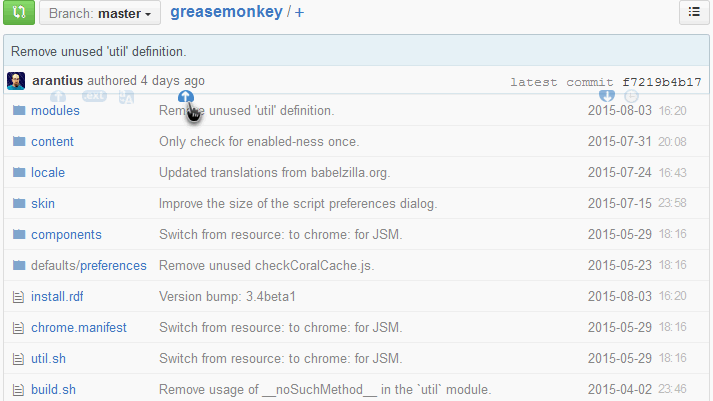
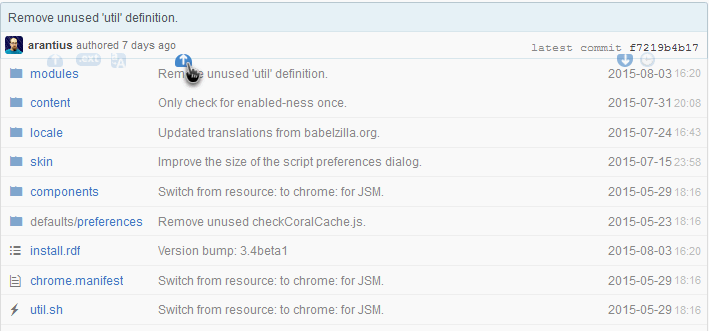
GitHub Sortable Filelist
15.08.10  + octicons for file extensions

diff --git a/src/GitHub_Sortable_Filelist.user.js b/src/GitHub_Sortable_Filelist.user.js
@@ -3,8 +3,8 @@
 // @namespace   trespassersW
 // @description appends sorting function to github directories
 // @include https://github.com/*
-// @version 15.08.08
-// 15.08.08  * css fixes
+// @version 15.08.10
+// 15.08.10  + octicons for file extensions
 // 15.08.07  + case-insensitive sorting
 // 15.05.07  sorting is now faster
 // 14.11.19.13 fixes for latest github changes
@@ -43,6 +43,31 @@ var D=document, TB;
 var catcher,locStor;
 var prefs={dtStyle:0, ext: 0, upc: 1};
 var W= unsafeWindow || window;
+
+// see: https://octicons.github.com/
+var extIcon=[
+//0...........1..............2..............3..............4.......
+ "book"     ,"zap"        ,"list-unordered","paintcan"   ,"eye"
+//5...........6..............7..............8..............9.......
+,"globe"    ,"file-binary" ,"file-zip"     ,"file-pdf"   ,"unmute"
+//10..........11.............12.............13.............14......
+,"gear"     ,"code"
+]
+var extList={ 
+md:0,
+js:1,rb:1,py:1,sh:1,pl:1,jsm:1,
+json:2,xml:2,xul:2,rdf:2,
+css:3,
+png:4,jpg:4,jpeg:4,bmp:4,gif:4,cur:4,ico:4,svg:4,
+htm:5,html:5,php:5,
+bin:6,exe:6,
+zip:7,rar:7,arj:7,
+pdf:8,rtf:8,
+wav:9,mp3:9,ogg:9,
+cfg:10,ini:10,
+c:11,cpp:11,cc:11,h:11,hpp:11,asm:11
+}
+
 function stickStyle(css){
  var s=document.createElement("style"); s.type="text/css";
  s.appendChild(document.createTextNode(css));
@@ -217,6 +242,25 @@ function d2s(n){
  }
 }
 
+var xmatch=/(.*)\.(.*)$/;
+function filext(x){
+ var m= x.match(xmatch);
+ if(!m || !m[2]) return "txt";
+ return m[2];
+}
+function setIcon(tr){
+  var xt,tc,ti=tr.querySelector('td.icon > span.octicon-file-text');
+  if(!ti) return;
+  tc=tr.querySelector('td.content > span.css-truncate').textContent;
+  if(!tc) return;
+  xt=filext(tc);
+  if(!xt) return;
+  xt=extList[xt];
+  if(typeof xt === "undefined") return;
+  ti.className='octicon octicon-'+ extIcon[xt];
+  _l('setIcon '+xt);
+}
+
 function setDateTime(x){
  var dt,dtm,dta,dtd,tc,m,now,t;
  var DT=D.querySelectorAll('td.age span.css-truncate time');
@@ -246,14 +290,17 @@ function setDateTime(x){
     dtm.innerHTML=t;
   }
   if(!x) insAfter(dtm,DT[i]);
+  if(!x)
+    setIcon(outerNode(DT[i],'TR'));
  }
+ /* 150810 */
  }catch(e){(console.log(e+'\n*GHSFL* wrong datetime'+x))}
 }
 
 function isDir(x){
  var c= TB.rows[x].cells[0].querySelector("span");
  if(c.className.indexOf("-directory")>0) return 0;
- if(c.className.indexOf("-file")>0) return -1;
+ if(c.className.indexOf("octicon-")>0) return -1;
  return 1;
 }
 function getCell(r,c,s,p){

diff --git a/show/GHSFl.md b/show/GHSFl.md
@@ -9,4 +9,4 @@
 ===== 
 
 * <small>15.08.07  + case-insensitive sorting </small>
-* <small> 15.08.08 * css fixes</small>
+* <small>15.08.10  + octicons for file extensions</small>
